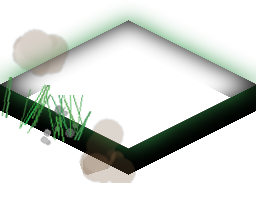
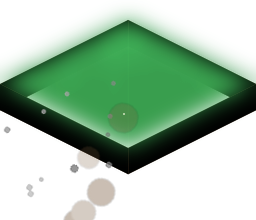
material generation

diff --git a/utils/asset_generator/material/atlas_material.py b/utils/asset_generator/material/atlas_material.py
@@ -90,6 +90,23 @@ def polygon_mask(size: Tuple[int, int], pts: List[Tuple[float, float]]) -> Image
     return m
 
 
+def polygon_mask_ssaa(size: Tuple[int, int], pts: List[Tuple[float, float]], ss: int = 4) -> Image.Image:
+    """
+    Supersampled polygon mask for smoother edges.
+    Renders at (w*ss, h*ss) then downsamples to (w,h).
+    """
+    w, h = size
+    ss = max(1, int(ss))
+    W, H = w * ss, h * ss
+    m = Image.new("L", (W, H), 0)
+    d = ImageDraw.Draw(m)
+    pts2 = [(p[0] * ss, p[1] * ss) for p in pts]
+    d.polygon(pts2, fill=255)
+    if ss == 1:
+        return m
+    return m.resize((w, h), resample=Image.Resampling.LANCZOS)
+
+
 def apply_alpha(img: Image.Image, alpha: Image.Image) -> Image.Image:
     out = img.copy()
     r, g, b, a = out.split()
@@ -107,6 +124,59 @@ def paste_with_mask(dst: Image.Image, src: Image.Image, mask: Image.Image) -> No
 def overlay_solid(dst: Image.Image, color_rgba: Tuple[int, int, int, int], mask: Image.Image) -> None:
     solid = Image.new("RGBA", dst.size, color_rgba)
     paste_with_mask(dst, solid, mask)
+
+
+def apply_lighting_mul(img: Image.Image, mask: Image.Image, factor: float) -> Image.Image:
+    """
+    Apply gentle multiplicative lighting under `mask` (L image).
+    This avoids the obvious triangle artifacts produced by additive white/black overlays.
+    """
+    factor = float(factor)
+    if abs(factor - 1.0) < 1e-6:
+        return img
+    r, g, b, a = img.split()
+
+    def _mul_chan(ch: Image.Image) -> Image.Image:
+        return ch.point(lambda p: _clamp_int(int(p * factor + 0.5), 0, 255))
+
+    mod = Image.merge("RGBA", (_mul_chan(r), _mul_chan(g), _mul_chan(b), a))
+    return Image.composite(mod, img, mask)
+
+
+def alpha_bleed_rgba(img: Image.Image, radius_px: int = 2, alpha_threshold: int = 1) -> Image.Image:
+    """
+    Fill RGB under (near-)transparent pixels by dilating nearby opaque colors (alpha remains unchanged).
+    This prevents dark fringes when sampling straight-alpha textures with bilinear filtering.
+    """
+    radius_px = max(0, int(radius_px))
+    if radius_px <= 0:
+        return img
+
+    r, g, b, a = img.split()
+    # solid mask: 255 where alpha >= threshold, else 0
+    solid = a.point(lambda p: 255 if p >= alpha_threshold else 0)
+
+    # Iterative 1px dilation steps for better control
+    k = ImageFilter.MaxFilter(3)
+    r2, g2, b2 = r.copy(), g.copy(), b.copy()
+    solid2 = solid.copy()
+
+    for _ in range(radius_px):
+        solid_d = solid2.filter(k)
+        new = ImageChops.subtract(solid_d, solid2)  # newly covered pixels (0..255)
+        if new.getbbox() is None:
+            break
+
+        rd = r2.filter(k)
+        gd = g2.filter(k)
+        bd = b2.filter(k)
+
+        r2 = Image.composite(rd, r2, new)
+        g2 = Image.composite(gd, g2, new)
+        b2 = Image.composite(bd, b2, new)
+        solid2 = solid_d
+
+    return Image.merge("RGBA", (r2, g2, b2, a))
 
 
 def edge_band_mask(surface_mask: Image.Image, falloff_px: int) -> Tuple[Image.Image, Image.Image]:
@@ -206,6 +276,8 @@ class MaterialStyle:
     side_uv_jitter_px: int = 16
     side_mode: str = "mixed"  # soil|rock|mixed
     outline_enabled: bool = False
+    alpha_bleed_px: int = 2
+    mask_ssaa: int = 4
 
     @staticmethod
     def from_json(path: str) -> "MaterialStyle":
@@ -232,6 +304,8 @@ class MaterialStyle:
             side_uv_jitter_px=int(st.get("side_uv_jitter_px", 16)),
             side_mode=str(st.get("side_mode", "mixed")),
             outline_enabled=bool(st.get("outline_enabled", False)),
+            alpha_bleed_px=int(st.get("alpha_bleed_px", 2)),
+            mask_ssaa=int(st.get("mask_ssaa", 4)),
         )
 
     def resolve_paths(self, repo_root: str) -> None:

diff --git a/utils/asset_generator/material/generate_atlas_ridge_material.py b/utils/asset_generator/material/generate_atlas_ridge_material.py
@@ -8,12 +8,14 @@ from PIL import Image
 from atlas_material import (
     MaterialStyle,
     apply_alpha,
+    alpha_bleed_rgba,
+    apply_lighting_mul,
     apply_edge_noise,
     edge_band_mask,
     load_rgba,
     overlay_solid,
     paste_with_mask,
-    polygon_mask,
+    polygon_mask_ssaa,
     scatter_decals,
     split_sheet,
     tile_pattern,
@@ -174,7 +176,7 @@ def generate_png_atlas_material(output_path: str, style: MaterialStyle, repo_roo
                 continue
 
             wall_poly = [pts_base[j], pts_base[nj], pts_surface[nj], pts_surface[j]]
-            wall_mask = polygon_mask((TILE_W, TILE_H), wall_poly)
+            wall_mask = polygon_mask_ssaa((TILE_W, TILE_H), wall_poly, ss=style.mask_ssaa)
 
             use_rock = False
             if style.side_mode == "rock":
@@ -212,16 +214,17 @@ def generate_png_atlas_material(output_path: str, style: MaterialStyle, repo_roo
             if heights[i1] == 0 and heights[i2] == 0 and heights[i3] == 0:
                 continue
             tri_poly = [pts_surface[i1], pts_surface[i2], pts_surface[i3]]
-            tri_mask = polygon_mask((TILE_W, TILE_H), tri_poly)
+            tri_mask = polygon_mask_ssaa((TILE_W, TILE_H), tri_poly, ss=style.mask_ssaa)
             bright = triangle_brightness(pts_3d[i1], pts_3d[i2], pts_3d[i3], light_dir)
-            if bright >= 1.0:
-                a = int(max(0.0, min(120.0, (bright - 1.0) * 90.0)))
-                overlay_solid(tile_surface, (255, 255, 255, a), tri_mask)
-            else:
-                a = int(max(0.0, min(160.0, (1.0 - bright) * 140.0)))
-                overlay_solid(tile_surface, (0, 0, 0, a), tri_mask)
+            # Convert brightness to a gentle multiplicative factor to avoid visible triangle artifacts.
+            factor = max(0.85, min(1.15, bright))
+            tile_surface = apply_lighting_mul(tile_surface, tri_mask, factor)
 
-        hard = polygon_mask((TILE_W, TILE_H), [pts_surface[0], pts_surface[1], pts_surface[2], pts_surface[3]])
+        hard = polygon_mask_ssaa(
+            (TILE_W, TILE_H),
+            [pts_surface[0], pts_surface[1], pts_surface[2], pts_surface[3]],
+            ss=style.mask_ssaa,
+        )
         soft, band = edge_band_mask(hard, style.edge_falloff_px)
         alpha = apply_edge_noise(soft, band, style.edge_noise_amplitude_px, style.edge_noise_scale, seed=style.seed + i * 17)
         tile_surface = apply_alpha(tile_surface, alpha)
@@ -238,6 +241,7 @@ def generate_png_atlas_material(output_path: str, style: MaterialStyle, repo_roo
 
         tile = tile_walls
         tile.alpha_composite(tile_surface)
+        tile = alpha_bleed_rgba(tile, radius_px=style.alpha_bleed_px)
         img.alpha_composite(tile, (x, y))
 
     img.save(output_path)

diff --git a/utils/asset_generator/material/generate_atlas_valley_material.py b/utils/asset_generator/material/generate_atlas_valley_material.py
@@ -8,12 +8,14 @@ from PIL import Image
 from atlas_material import (
     MaterialStyle,
     apply_alpha,
+    alpha_bleed_rgba,
+    apply_lighting_mul,
     apply_edge_noise,
     edge_band_mask,
     load_rgba,
     overlay_solid,
     paste_with_mask,
-    polygon_mask,
+    polygon_mask_ssaa,
     scatter_decals,
     split_sheet,
     tile_pattern,
@@ -173,7 +175,7 @@ def generate_png_atlas_material(output_path: str, style: MaterialStyle, repo_roo
                 continue
 
             wall_poly = [pts_base[j], pts_base[nj], pts_surface[nj], pts_surface[j]]
-            wall_mask = polygon_mask((TILE_W, TILE_H), wall_poly)
+            wall_mask = polygon_mask_ssaa((TILE_W, TILE_H), wall_poly, ss=style.mask_ssaa)
 
             use_rock = False
             if style.side_mode == "rock":
@@ -206,16 +208,17 @@ def generate_png_atlas_material(output_path: str, style: MaterialStyle, repo_roo
             if heights[i1] == 0 and heights[i2] == 0 and heights[i3] == 0:
                 continue
             tri_poly = [pts_surface[i1], pts_surface[i2], pts_surface[i3]]
-            tri_mask = polygon_mask((TILE_W, TILE_H), tri_poly)
+            tri_mask = polygon_mask_ssaa((TILE_W, TILE_H), tri_poly, ss=style.mask_ssaa)
             bright = triangle_brightness(pts_3d[i1], pts_3d[i2], pts_3d[i3], light_dir)
-            if bright >= 1.0:
-                a = int(max(0.0, min(120.0, (bright - 1.0) * 90.0)))
-                overlay_solid(tile_surface, (255, 255, 255, a), tri_mask)
-            else:
-                a = int(max(0.0, min(160.0, (1.0 - bright) * 140.0)))
-                overlay_solid(tile_surface, (0, 0, 0, a), tri_mask)
+            # Convert brightness to a gentle multiplicative factor to avoid visible triangle artifacts.
+            factor = max(0.85, min(1.15, bright))
+            tile_surface = apply_lighting_mul(tile_surface, tri_mask, factor)
 
-        hard = polygon_mask((TILE_W, TILE_H), [pts_surface[0], pts_surface[1], pts_surface[2], pts_surface[3]])
+        hard = polygon_mask_ssaa(
+            (TILE_W, TILE_H),
+            [pts_surface[0], pts_surface[1], pts_surface[2], pts_surface[3]],
+            ss=style.mask_ssaa,
+        )
         soft, band = edge_band_mask(hard, style.edge_falloff_px)
         alpha = apply_edge_noise(soft, band, style.edge_noise_amplitude_px, style.edge_noise_scale, seed=style.seed + i * 17)
         tile_surface = apply_alpha(tile_surface, alpha)
@@ -232,6 +235,7 @@ def generate_png_atlas_material(output_path: str, style: MaterialStyle, repo_roo
 
         tile = tile_walls
         tile.alpha_composite(tile_surface)
+        tile = alpha_bleed_rgba(tile, radius_px=style.alpha_bleed_px)
         img.alpha_composite(tile, (x, y))
 
     img.save(output_path)
